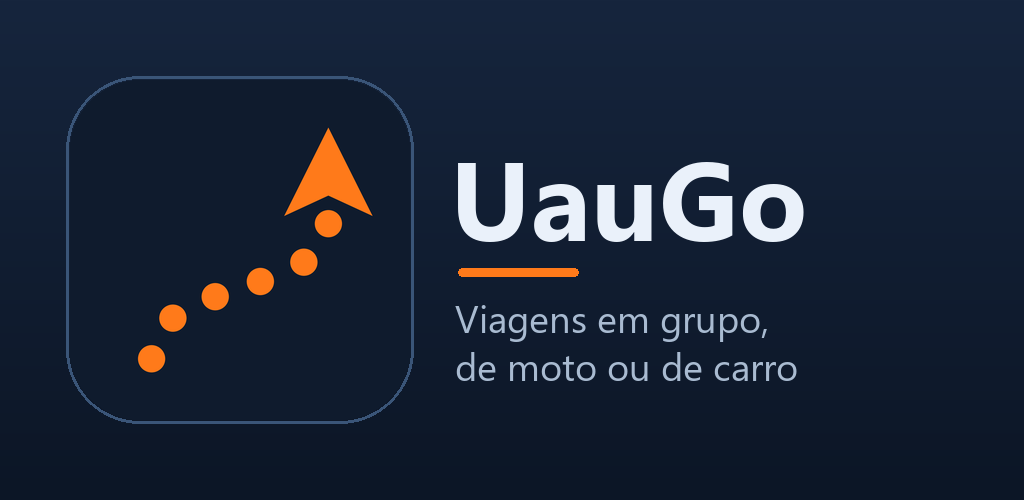
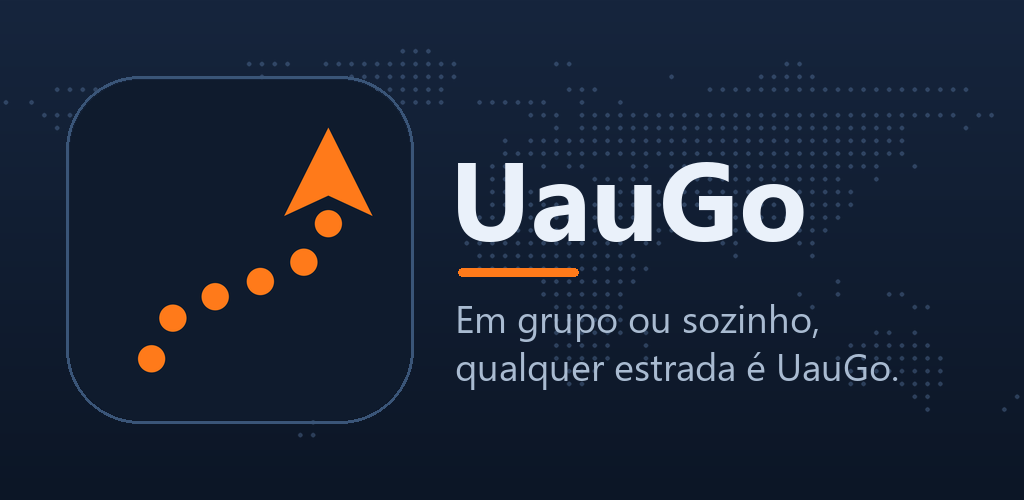
Tela inicial com mapa-múndi pontilhado atrás da marca e slogan 'Em grupo ou sozinho, qualquer estrada é UauGo.'

diff --git a/lib/screens/home_screen.dart b/lib/screens/home_screen.dart
@@ -12,6 +12,7 @@ import 'package:geolocator/geolocator.dart';
 import 'package:google_maps_flutter/google_maps_flutter.dart';
 import 'package:shared_preferences/shared_preferences.dart';
 
+import '../brand.dart';
 import '../models/bike.dart';
 import '../models/expedition.dart' show StopType;
 import '../services/trip_service.dart';
@@ -319,21 +320,28 @@ class _HomeScreenState extends State<HomeScreen> {
                           builder: (_) => const SettingsScreen())),
                 ),
               ]),
-              Center(
-                child: ClipRRect(
-                  borderRadius: BorderRadius.circular(22),
-                  child: Image.asset('assets/branding/comboio_logo.png',
-                      width: 96, height: 96),
-                ),
+              // Marca sobre o mapa-múndi pontilhado: "em qualquer estrada".
+              // (scripts/gerar-mapa-pontilhado.py e scripts/gerar-icone.py)
+              SizedBox(
+                height: 150,
+                child: Stack(alignment: Alignment.center, children: [
+                  Positioned.fill(
+                    child: Image.asset('assets/branding/mapa_pontilhado.png',
+                        fit: BoxFit.contain),
+                  ),
+                  Image.asset('assets/branding/uaugo_marca.png',
+                      width: 104, height: 104),
+                ]),
               ),
-              const SizedBox(height: 8),
+              const SizedBox(height: 4),
               Text('UauGo',
                   textAlign: TextAlign.center,
                   style: theme.textTheme.headlineMedium
                       ?.copyWith(fontWeight: FontWeight.bold)),
-              Text('Viagens em grupo, de moto ou de carro',
+              Text(appSlogan,
                   textAlign: TextAlign.center,
-                  style: theme.textTheme.bodyMedium),
+                  style: theme.textTheme.bodyMedium
+                      ?.copyWith(color: theme.colorScheme.onSurfaceVariant)),
               const SizedBox(height: 24),
               // Navegação sozinho (tipo Waze), sem precisar de expedição.
               Material(

diff --git a/lib/screens/about_screen.dart b/lib/screens/about_screen.dart
@@ -9,6 +9,8 @@
 
 import 'package:flutter/material.dart';
 
+import '../brand.dart';
+
 /// Sobre o app: autoria (HelpAITech) e créditos das fontes de dados.
 class AboutScreen extends StatelessWidget {
   const AboutScreen({super.key});
@@ -44,7 +46,7 @@ class AboutScreen extends StatelessWidget {
               textAlign: TextAlign.center,
               style: theme.textTheme.headlineSmall
                   ?.copyWith(fontWeight: FontWeight.bold)),
-          Text('Viagens em grupo, de moto ou de carro · versão $version',
+          Text('$appSlogan\nVersão $version',
               textAlign: TextAlign.center, style: theme.textTheme.bodySmall),
           const SizedBox(height: 28),
 

diff --git a/lib/brand.dart b/lib/brand.dart
@@ -1,0 +1,10 @@
+// ============================================================================
+// brand.dart — Textos da marca
+//
+// O que faz: Nome e slogan do app, usados na tela inicial e na tela Sobre.
+// Onde mexer: Mudou o slogan? Troque aqui e também na arte da loja
+//   (scripts/gerar-arte-loja.py) e em loja/textos-google-play.md.
+// ============================================================================
+
+/// Slogan do app.
+const appSlogan = 'Em grupo ou sozinho, qualquer estrada é UauGo.';

diff --git a/scripts/gerar-mapa-pontilhado.py b/scripts/gerar-mapa-pontilhado.py
@@ -1,0 +1,84 @@
+"""Gera o mapa-múndi pontilhado do fundo da tela inicial (e da arte da loja).
+
+  python scripts/gerar-mapa-pontilhado.py      (precisa do Pillow e de internet)
+
+Baixa os contornos dos continentes (world-atlas, dados Natural Earth, domínio
+público), projeta em equirretangular (2:1) e marca um ponto onde há terra.
+Saída: assets/branding/mapa_pontilhado.png (fundo transparente, pontos azuis
+claros e discretos, para ficar atrás da seta laranja).
+"""
+import json
+import os
+import urllib.request
+from PIL import Image, ImageDraw
+
+ROOT = os.path.dirname(os.path.dirname(os.path.abspath(__file__)))
+URL = "https://cdn.jsdelivr.net/npm/world-atlas@2/land-110m.json"
+W, H = 1200, 600          # 2:1 (equirretangular)
+STEP = 15                 # distância entre pontos (px)
+DOT = 5.0                 # diâmetro do ponto (px)
+COLOR = (120, 160, 210, 72)  # azul claro, ~28% de opacidade
+
+
+def decode(topo):
+    """TopoJSON -> lista de anéis [(lon, lat), ...] da camada 'land'."""
+    sx, sy = topo["transform"]["scale"]
+    tx, ty = topo["transform"]["translate"]
+    arcs = []
+    for arc in topo["arcs"]:
+        x = y = 0
+        pts = []
+        for dx, dy in arc:
+            x += dx
+            y += dy
+            pts.append((x * sx + tx, y * sy + ty))
+        arcs.append(pts)
+
+    def ring(idx):
+        out = []
+        for i in idx:
+            a = arcs[i] if i >= 0 else arcs[~i][::-1]
+            out.extend(a if not out else a[1:])
+        return out
+
+    rings = []
+    for geom in topo["objects"]["land"]["geometries"]:
+        polys = geom["arcs"] if geom["type"] == "MultiPolygon" else [geom["arcs"]]
+        for poly in polys:
+            rings.extend(ring(r) for r in poly)
+    return rings
+
+
+def inside(lon, lat, rings):
+    """Regra par-ímpar: dentro de terra se cruza um número ímpar de bordas."""
+    c = False
+    for r in rings:
+        j = len(r) - 1
+        for i in range(len(r)):
+            xi, yi = r[i]
+            xj, yj = r[j]
+            if (yi > lat) != (yj > lat) and lon < (xj - xi) * (lat - yi) / (yj - yi) + xi:
+                c = not c
+            j = i
+    return c
+
+
+topo = json.loads(urllib.request.urlopen(URL, timeout=60).read())
+rings = decode(topo)
+ss = 3
+img = Image.new("RGBA", (W * ss, H * ss), (0, 0, 0, 0))
+d = ImageDraw.Draw(img)
+r = DOT / 2 * ss
+for py in range(STEP // 2, H, STEP):
+    lat = 90 - py / H * 180
+    if lat < -58:  # sem a Antártida (só uma faixa de pontos embaixo)
+        continue
+    for px in range(STEP // 2, W, STEP):
+        lon = px / W * 360 - 180
+        if inside(lon, lat, rings):
+            cx, cy = px * ss, py * ss
+            d.ellipse([cx - r, cy - r, cx + r, cy + r], fill=COLOR)
+out = os.path.join(ROOT, "assets", "branding", "mapa_pontilhado.png")
+# Corta o espaço vazio de cima (polo) e de baixo (sem a Antártida).
+img.resize((W, H), Image.LANCZOS).crop((0, 10, W, 500)).save(out)
+print("ok:", out)

diff --git a/scripts/gerar-arte-loja.py b/scripts/gerar-arte-loja.py
@@ -27,6 +27,13 @@ top, bottom = (22, 37, 61), (12, 22, 38)  # azul-marinho da marca
 for y in range(H):
     t = y / (H - 1)
     d.line([(0, y), (W, y)], fill=tuple(int(top[i] + (bottom[i] - top[i]) * t) for i in range(3)))
+# Mapa-múndi pontilhado ao fundo (o mesmo da tela inicial).
+mapa = Image.open(os.path.join(ROOT, "assets", "branding", "mapa_pontilhado.png")).convert("RGBA")
+mapa = mapa.resize((W, int(mapa.height * W / mapa.width)), Image.LANCZOS)
+g = g.convert("RGBA")
+g.alpha_composite(mapa, (0, (H - mapa.height) // 2))
+g = g.convert("RGB")
+d = ImageDraw.Draw(g)
 logo = icon.resize((340, 340), Image.LANCZOS)
 mask = Image.new("L", logo.size, 0)
 ImageDraw.Draw(mask).rounded_rectangle([0, 0, 339, 339], radius=70, fill=255)
@@ -39,8 +46,8 @@ sub = ImageFont.truetype(os.path.join(fonts, "segoeui.ttf"), 38)
 dark = (234, 241, 250)  # texto claro sobre o marinho
 muted = (169, 187, 209)
 d.text((450, 120), "UauGo", font=title, fill=dark)
-d.text((455, 292), "Viagens em grupo,", font=sub, fill=muted)
-d.text((455, 340), "de moto ou de carro", font=sub, fill=muted)
+d.text((455, 292), "Em grupo ou sozinho,", font=sub, fill=muted)
+d.text((455, 340), "qualquer estrada é UauGo.", font=sub, fill=muted)
 d.rounded_rectangle([458, 268, 578, 276], radius=4, fill=(255, 122, 26))  # traço laranja
 g.save(os.path.join(OUT, "destaque-1024x500.png"))
 print("ok:", os.listdir(OUT))

diff --git a/scripts/gerar-icone.py b/scripts/gerar-icone.py
@@ -8,6 +8,7 @@ Desenha em alta resolução e reduz (bordas suaves). Saída:
                                            (ícone adaptável do Android; o fundo é a cor
                                            adaptive_icon_background do pubspec)
   assets/branding/comboio_logo.png         512, cantos arredondados (logo dentro do app)
+  assets/branding/uaugo_marca.png          512, só a trilha e a seta (fundo transparente)
   assets/branding/uaugo_icone.svg          desenho-mestre (referência)
   loja/icone-512.png                       ícone da Google Play
 Depois: dart run flutter_launcher_icons
@@ -81,6 +82,8 @@ draw(1024).convert("RGB").save(os.path.join(brand, "comboio_icon_square.png"))
 # segura central (~60%).
 draw(1024, scale=0.60, background=False).save(os.path.join(brand, "comboio_icon_fg.png"))
 draw(512, radius=0.22).save(os.path.join(brand, "comboio_logo.png"))
+# Só a marca (trilha + seta), sem o quadrado: vai sobre o mapa-múndi da tela inicial.
+draw(512, background=False).save(os.path.join(brand, "uaugo_marca.png"))
 with open(os.path.join(brand, "uaugo_icone.svg"), "w", encoding="utf-8") as f:
     f.write(svg())
 os.makedirs(os.path.join(ROOT, "loja"), exist_ok=True)

diff --git a/loja/textos-google-play.md b/loja/textos-google-play.md
@@ -7,7 +7,7 @@ UauGo: viagem em grupo
 Viaje em grupo de moto ou carro: rota, radares, alertas, SOS e clube.
 
 ## Descrição completa (máx. 4000)
-Viajar de moto ou de carro em grupo ficou mais fácil e mais seguro.
+Em grupo ou sozinho, qualquer estrada é UauGo.
 
 O UauGo mostra no mapa, em tempo real, onde está cada pessoa do seu grupo, avisa radares e perigos na estrada e guia o caminho por voz, curva a curva.
 

diff --git a/README.md b/README.md
@@ -1,4 +1,4 @@
-# 🏍🚗 UauGo — viagens em grupo, de moto ou de carro
+# 🏍🚗 UauGo — em grupo ou sozinho, qualquer estrada é UauGo
 
 App Flutter (iPhone + Android) com Google Maps e Firebase.
 Desenvolvido por **Ricardo Reis / HelpAITech**.
